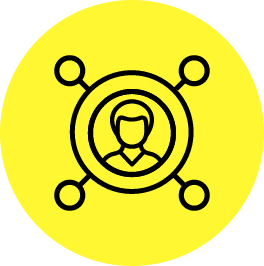
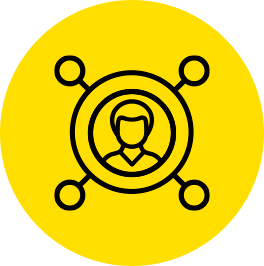
cambio tono de amarillo

diff --git a/css/style.css b/css/style.css
@@ -1306,7 +1306,7 @@
 
         .ficha-resultado__dato {
             font-size: 0.9rem;
-            color: #FFD700;
+            color: #FFDE26;
         }
 
         .ficha-resultado__dato-label {
@@ -1414,7 +1414,7 @@
             padding: 8px;
         }
 
-        .ficha-categoria-indicador--yellow .ficha-categoria-btn__icon { background: #FFF85F; }
+        .ficha-categoria-indicador--yellow .ficha-categoria-btn__icon { background: #ffdf00; }
         .ficha-categoria-indicador--green  .ficha-categoria-btn__icon { background: #85FF85; }
         .ficha-categoria-indicador--blue   .ficha-categoria-btn__icon { background: #85E3FF; }
         .ficha-categoria-indicador--pink   .ficha-categoria-btn__icon { background: #F5A9F2; }
@@ -1970,7 +1970,7 @@
 .hcard__bg {
     position: absolute;
     inset: 0;
-    background: var(--hcard-color, #FFF85F);
+    background: var(--hcard-color, #FFDE26);
     z-index: 0;
 }
 

diff --git a/js/main.js b/js/main.js
@@ -592,7 +592,7 @@ function mostrarResultadosExplora(resultados) {
  */
 function inicializarHallazgos() {
     const colores = {
-        intereses: '#FFF85F',
+        intereses: '#FFDE26',
         dinero:    '#85FF85',
         bienes:    '#F5A9F2',
         estudios:  '#85E3FF'
@@ -615,12 +615,12 @@ function mostrarResultadosHallazgo(categoria, resultados, colorOverride) {
     if (detailContainer) detailContainer.style.display = 'none';
 
     const colores = {
-        intereses: '#FFF85F',
+        intereses: '#FFDE26',
         dinero:    '#85FF85',
         bienes:    '#F5A9F2',
         estudios:  '#85E3FF'
     };
-    const color = colorOverride || colores[categoria] || '#FFF85F';
+    const color = colorOverride || colores[categoria] || '#FFDE26';
 
     grid.className = 'hcard-grid';
 